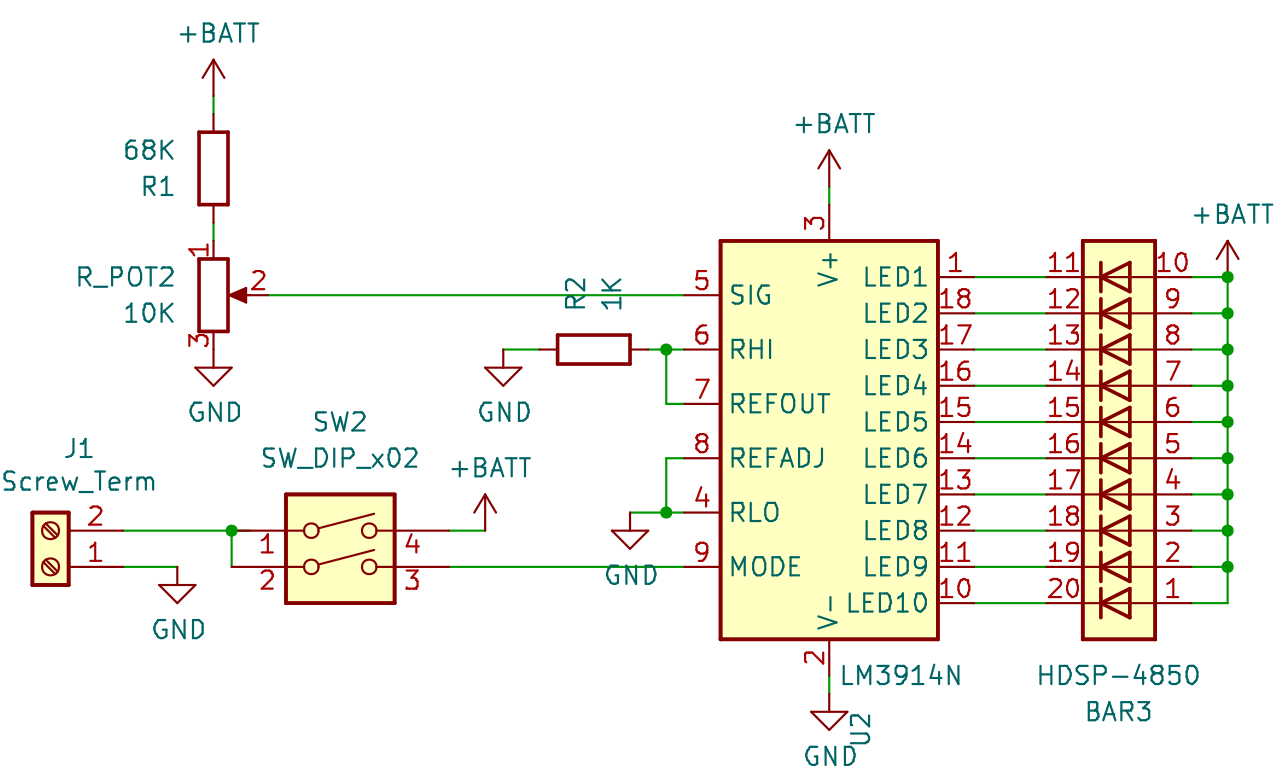
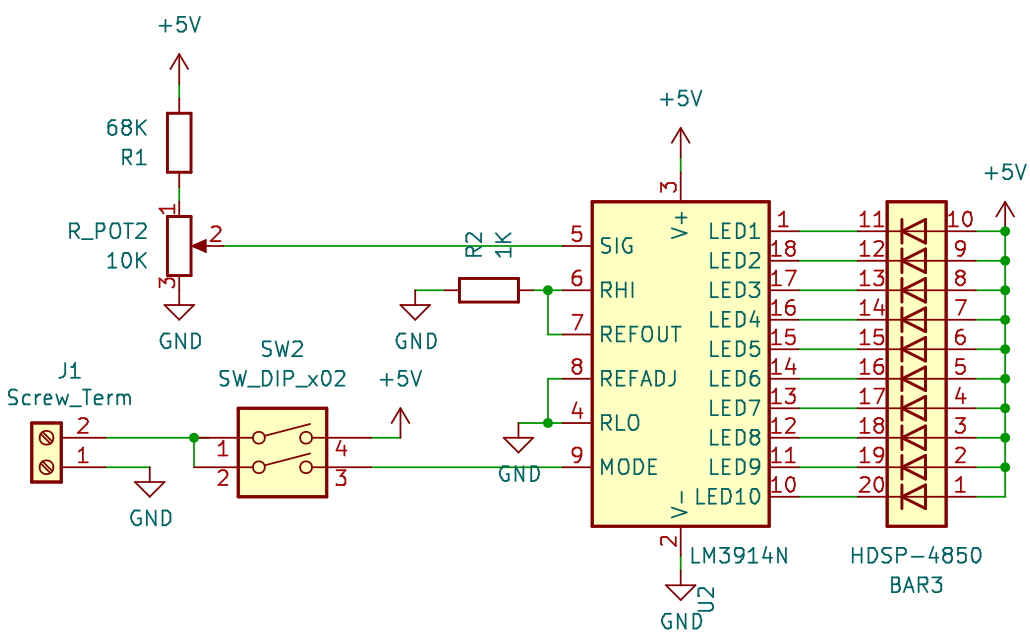
u

Changed region(s): [[0.0, 0.03, 1.0, 1.0], [0.6214, 0.1201, 0.6835, 0.2401]]

diff --git a/techtips/Electronics/LM3914/circuit_02.html b/techtips/Electronics/LM3914/circuit_02.html
@@ -17,8 +17,8 @@
         <td width="200">
           <a href="../../../index.html"><img src="../../../images/home.png" alt="home" height="60"></a>
           <a href="../../../techtips/index.html"><img src="../../../images/techtips.png" alt="scroll" height="60"></a>
-          <a href="../../../techtips/Electronics/index.html"><img src="../../../images/electronics_PCB.png" alt="Electronics"
-              height="60"></a>
+          <a href="../../../techtips/Electronics/index.html"><img src="../../../images/electronics_PCB.png"
+              alt="Electronics" height="60"></a>
         </td>
         <td id="headerline_cell">
           <h2>LM3914 circuit_02</h2>
@@ -32,8 +32,12 @@
 
       <div class="card">
         <h3>Circuit: Variable LED Tester</h3>
-        
-        
+
+        <p>
+          In this circuit, we will add a potentiometer to the circuit_01.<br>
+          It will allow us to vary the input voltage at SIG between 0 V and 1.2 V<br>
+
+        </p>
         <img src="images/circuit_02.png" alt="circuit_02" width="600">
 
       </div>
